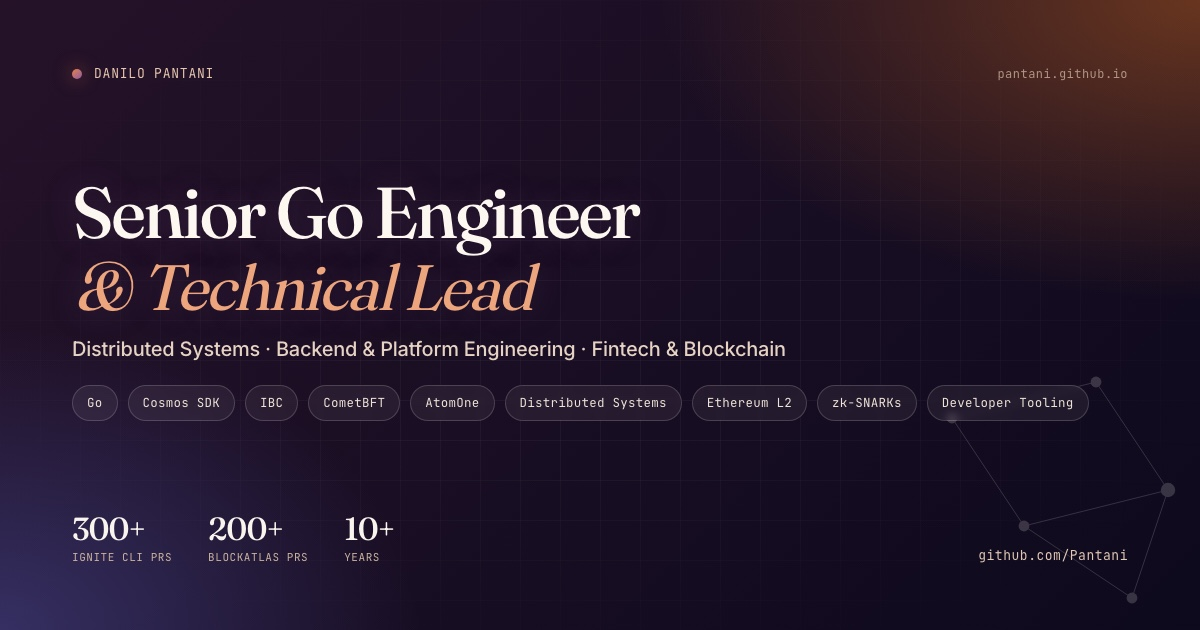
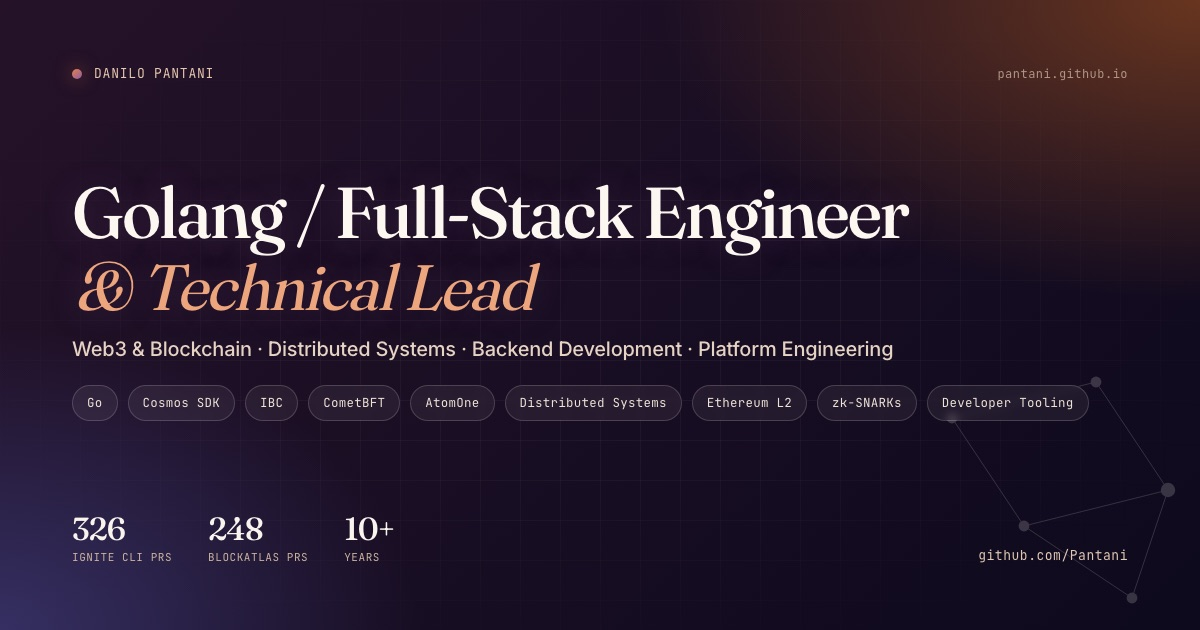
fix: regenerate og-image.jpg from the updated share card
The social image still showed the previous positioning ("Senior Go
Engineer", "Distributed Systems · Backend & Platform Engineering ·
Fintech & Blockchain") and the old rounded metrics (300+, 200+), so it
no longer matched og:image:alt or the card it is generated from.

Recaptured with the page's built-in #og mode, which renders only
.social-preview-card at exactly 1200x630 with no page chrome, via
headless Chrome at device scale factor 1. Layout is unchanged from the
previous asset; only the card text differs. Now reads "Golang /
Full-Stack Engineer & Technical Lead" over the new role line, with 326
and 248 merged PRs.

With the image actually changed, the ?v= cache-busting value is bumped
across all six og:image / twitter:image references, and the ProfilePage
dateModified moves to the date of this change.

diff --git a/index.html b/index.html
@@ -24,8 +24,8 @@
   <meta property="og:locale:alternate" content="es_ES">
   <meta property="profile:first_name" content="Danilo">
   <meta property="profile:last_name" content="Pantani">
-  <meta property="og:image" content="https://pantani.github.io/og-image.jpg?v=20260901">
-  <meta property="og:image:secure_url" content="https://pantani.github.io/og-image.jpg?v=20260901">
+  <meta property="og:image" content="https://pantani.github.io/og-image.jpg?v=20260909">
+  <meta property="og:image:secure_url" content="https://pantani.github.io/og-image.jpg?v=20260909">
   <meta property="og:image:type" content="image/jpeg">
   <meta property="og:image:width" content="1200">
   <meta property="og:image:height" content="630">
@@ -36,7 +36,7 @@
   <meta name="twitter:card" content="summary_large_image">
   <meta name="twitter:title" content="Danilo Pantani — Golang / Full-Stack Engineer | Web3, Blockchain, Distributed Systems &amp; Backend Development">
   <meta name="twitter:description" content="10+ years across Web3 and blockchain, production Go backends, distributed systems, platform engineering, and fintech and digital-asset infrastructure.">
-  <meta name="twitter:image" content="https://pantani.github.io/og-image.jpg?v=20260901">
+  <meta name="twitter:image" content="https://pantani.github.io/og-image.jpg?v=20260909">
   <meta name="twitter:image:alt" content="Danilo Pantani — Golang / Full-Stack Engineer — Web3, Blockchain, Distributed Systems and Backend Development">
 
   <!--
@@ -50,14 +50,14 @@
   {
     "@context": "https://schema.org",
     "@type": "ProfilePage",
-    "dateModified": "2026-09-01T00:00:00-03:00",
+    "dateModified": "2026-09-09T00:00:00-03:00",
     "mainEntity": {
       "@type": "Person",
       "name": "Danilo Pantani",
       "givenName": "Danilo",
       "familyName": "Pantani",
       "url": "https://pantani.github.io/",
-      "image": "https://pantani.github.io/og-image.jpg?v=20260901",
+      "image": "https://pantani.github.io/og-image.jpg?v=20260909",
       "email": "mailto:danpantani@gmail.com",
       "jobTitle": "Golang / Full-Stack Engineer",
       "description": "Golang and full-stack engineer and hands-on technical lead with 10+ years across Web3 and blockchain, production Go backend platforms, distributed systems, and fintech and digital-asset infrastructure.",
@@ -89,7 +89,7 @@
           },
           "organizer": { "@type": "Organization", "name": "Confio GmbH", "url": "https://confio.gmbh/" },
           "performer": { "@type": "Person", "name": "Danilo Pantani" },
-          "image": "https://pantani.github.io/og-image.jpg?v=20260901",
+          "image": "https://pantani.github.io/og-image.jpg?v=20260909",
           "offers": {
             "@type": "Offer",
             "url": "https://www.awesomwasm.com/2023",
@@ -114,7 +114,7 @@
           },
           "organizer": { "@type": "Organization", "name": "Web3 Family", "url": "https://www.web3family.com/" },
           "performer": { "@type": "Person", "name": "Danilo Pantani" },
-          "image": "https://pantani.github.io/og-image.jpg?v=20260901",
+          "image": "https://pantani.github.io/og-image.jpg?v=20260909",
           "offers": {
             "@type": "Offer",
             "url": "https://www.web3family.com/",
